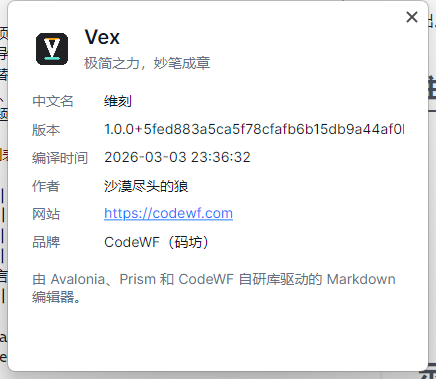
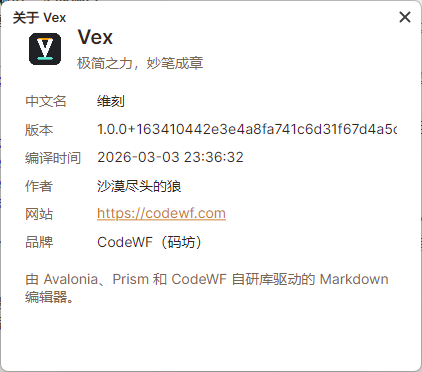
update;

diff --git a/2026/05/vex-avalonia-markdown-editor.md b/2026/05/vex-avalonia-markdown-editor.md
@@ -103,7 +103,7 @@ Vex 的工作区是三栏结构：
 
 外观入口放在帮助菜单下，当前包含主题色、排版主题、紧凑布局和语言设置。
 
-![](https://img1.dotnet9.com/2026/05/vex-theme-language-menu.png)
+![](https://img1.dotnet9.com/2026/05/vex-theme-language-menu.gif)
 
 主题色控制应用外壳，排版主题控制 Markdown 正文。两者分开后，可以组合出不同工作环境：浅色外壳配简洁排版，或暗色外壳配更适合代码阅读的排版主题。
 